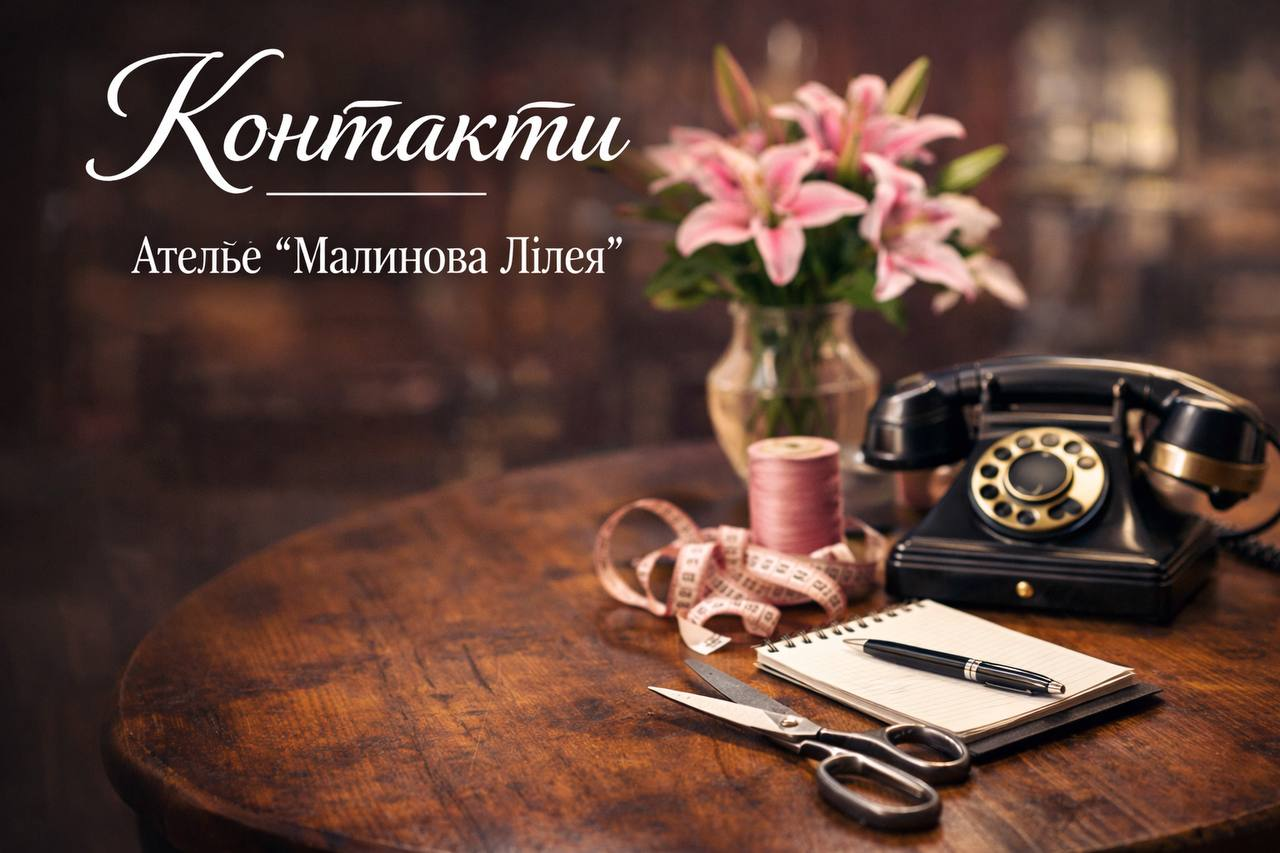
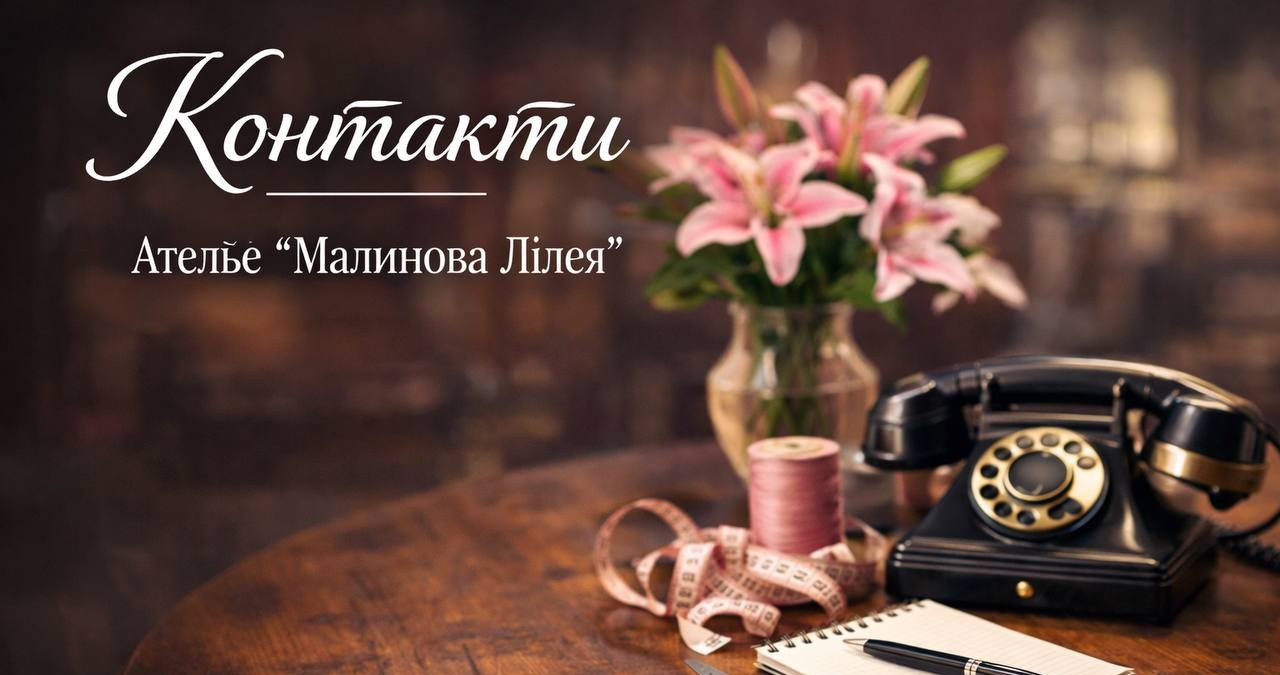
background second try

diff --git a/index.html b/index.html
@@ -32,7 +32,7 @@
           <div class="collapse navbar-collapse" id="navbarText">
             <ul class="navbar-nav me-auto mb-2 mb-lg-0">
               <li class="nav-item">
-                <a class="nav-link active" aria-current="page" href="index.html">Головна</a>
+                <a class="nav-link active" aria-current="page" href="index.html">Голова</a>
               </li>
               <li class="nav-item">
                 <a class="nav-link" href="about.html">Ціни</a>
@@ -50,7 +50,7 @@
     </main>
 
     <div class="info">
-      <h1 class="workinfo2"> Ремонт або перешив одягу </h1>
+      <div class="workinfo2">Ремонт або перешив одягу:</div>
       <p class="workinfo"> Ми виконуємо: </p>
        <p class="workinfo"> • Корекцію весільних та вечірніх суконь, купальників.<br>
   • Заміну або ремонт еластичних стрічок на одязі, таких як пояси на спідницях та штанах.<br>

diff --git a/script.js b/script.js
@@ -10,12 +10,14 @@ images.forEach(img => {
     });
 });
 
+if(close){
 close.addEventListener('click', () => {
     modal.style.display = 'none';
-});
-
+});}
+if(modal){
 modal.addEventListener('click', (e) => {
     if (e.target === modal) {
         modal.style.display = 'none';
     }
-});
+});}
+

diff --git a/about.css b/about.css
@@ -4,8 +4,9 @@
     width:100%;
     height:675px;
     background-size:cover;
-    background-position:center center;
+    background-position:center;
     background-attachment:fixed;
+    background-repeat: no-repeat;
 }
 
 .login1{

diff --git a/main.css b/main.css
@@ -111,6 +111,7 @@ p{
     width:100%;
     height:675px;
     background-size:cover;
-    background-position:center center;
+    background-position:center;
     background-attachment:fixed;
+    background-repeat: no-repeat;
 }

diff --git a/contact.css b/contact.css
@@ -22,6 +22,7 @@
     width:100%;
     height:675px;
     background-size:cover;
-    background-position:center center;
+    background-position:center;
     background-attachment:fixed;
+    background-repeat: no-repeat;
 }
